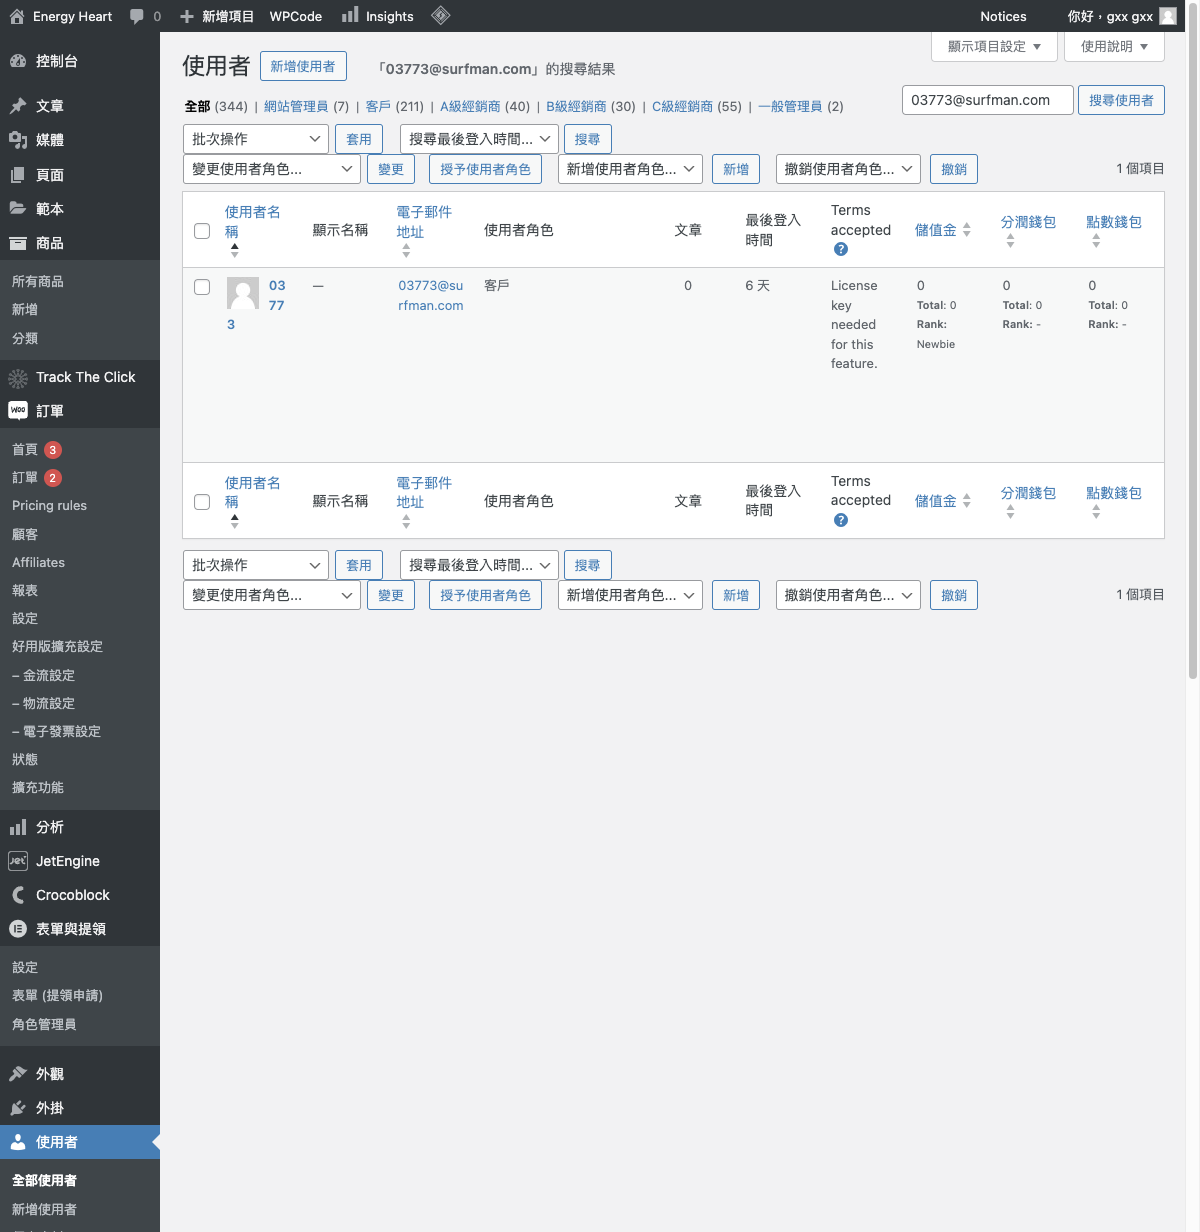
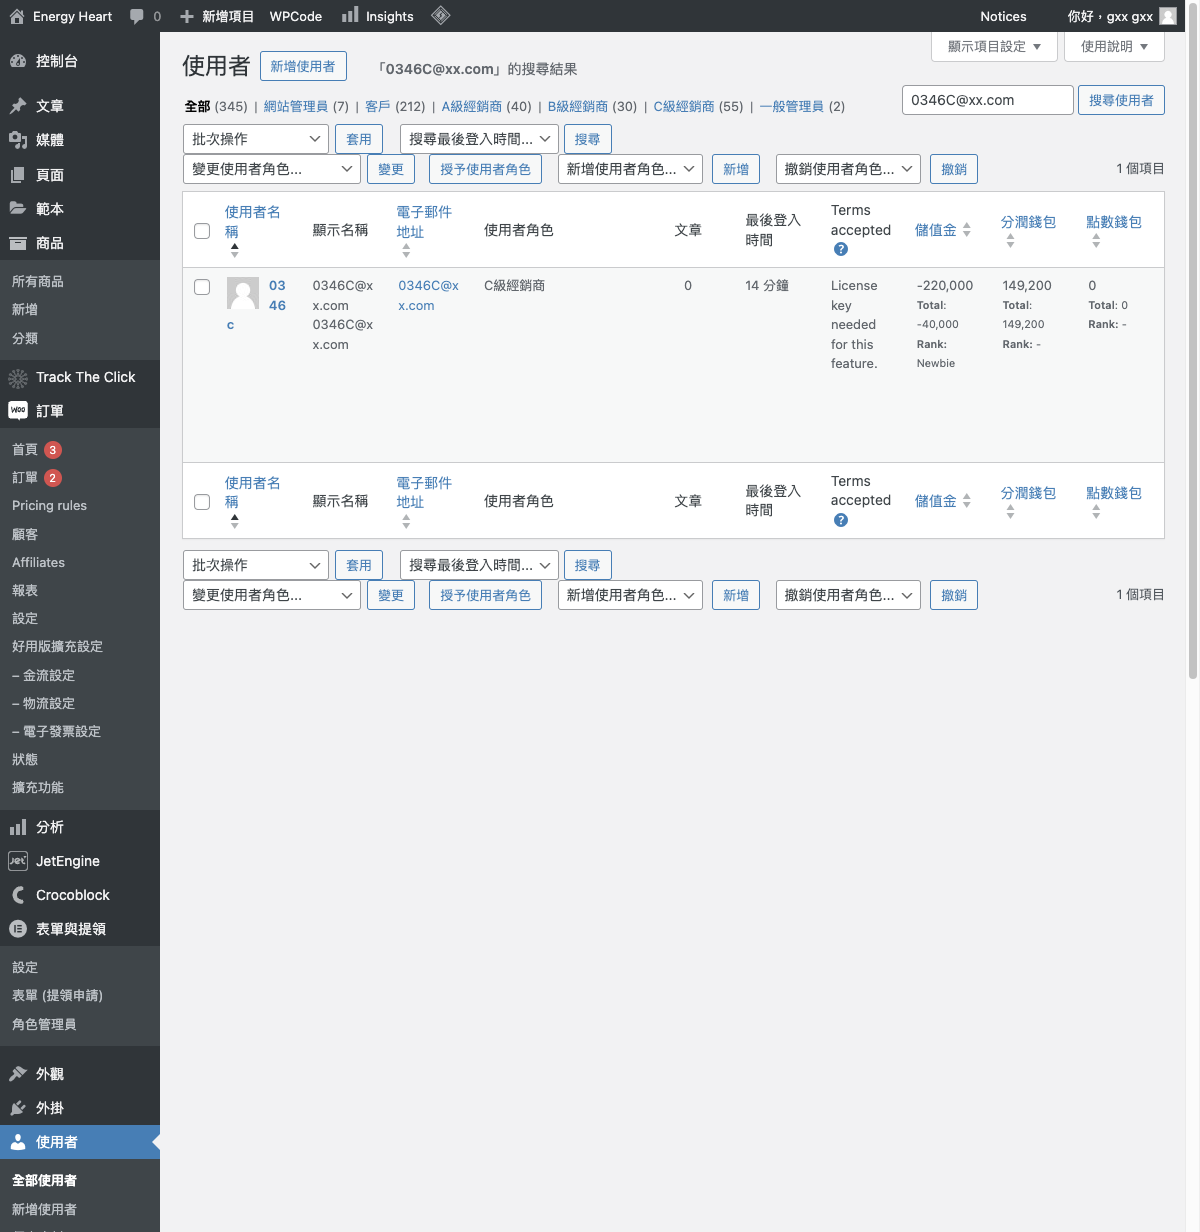
weird version but can pass second account loggin

diff --git a/existedMemberPurchase.js b/existedMemberPurchase.js
@@ -50,7 +50,7 @@ const rl = readline.createInterface({
 
         // 打開 WordPress 登入頁面
         await driver.get('https://www.energyheart.com.tw/wp-login.php');
-        console.log('已打開登入頁面');
+        console.log('Admin檢查此帳號客戶角色....');
         await takeScreenshot('Admin-已打開登入頁面.png');
 
         // 等待登入表單元素顯示
@@ -69,7 +69,7 @@ const rl = readline.createInterface({
 
         // 等待登入完成，檢查是否進入後台首頁
         await driver.wait(until.urlContains('wp-admin'), 30000);
-        await takeScreenshot('Admin-登入成功進入後台.png');
+        await takeScreenshot('Admin-成功登入後台.png');
 
         // 切換到使用者頁面，準備查看登入者帳號的使用者角色(經銷商等級)
         await driver.get('https://www.energyheart.com.tw/wp-admin/users.php');
@@ -83,110 +83,118 @@ const rl = readline.createInterface({
         await driver.sleep(7000); // 假設等待 7 秒鐘
         
         const tdValue = await driver.findElement(By.xpath('//td[@class="role column-role" and @data-colname="使用者角色"]')).getText();
-        console.log('使用者角色:', tdValue);
+        console.log(`${user_account}的使用者角色為:`, tdValue);
 
+        // 打開 WordPress 登入頁面
+        await driver.get('https://www.energyheart.com.tw/wp-login.php');
+        console.log('1-已打開登入頁面');
+        await takeScreenshot('1-已打開登入頁面.png');
 
-    //     // 打開 WordPress 登入頁面
-    //     await driver.get('https://www.energyheart.com.tw/wp-login.php');
-    //     console.log('1-已打開登入頁面');
-    //     await takeScreenshot('1-已打開登入頁面.png');
+        // 等待登入表單元素顯示
+        await driver.wait(until.elementLocated(By.id('user_login')), 10000);
 
-    //     // 等待登入表單元素顯示
-    //     await driver.wait(until.elementLocated(By.id('user_login')), 15000);
+        // 填寫登入表單
+        const userAccount = user_account;  // 替換為管理員用戶名
+        const userPassword = user_password;  // 替換為管理員密碼
+        // console.log(userAccount, userPassword);
+        // 使用 JavaScript 設置輸入框的值
 
-    //     // 填寫登入表單
-    //     const userAccount = user_account;  // 替換為管理員用戶名
-    //     const userPassword = user_password;  // 替換為管理員密碼
-    //     await driver.findElement(By.id('user_login')).sendKeys(userAccount);
-    //     await driver.findElement(By.id('user_pass')).sendKeys(userPassword);
-    //     console.log('2-已填寫登入表單');
-    //     await takeScreenshot('2-已填寫登入表單.png');
+        await takeScreenshot('aaa.png');
+        await driver.executeScript("document.getElementById('user_login').setAttribute('value', arguments[0]);", userAccount);
+        await takeScreenshot('bbb.png');
+        await driver.findElement(By.id('user_pass')).sendKeys(userPassword);
+        await takeScreenshot('ccc.png');
+        console.log('2-已填寫登入表單');
+        await takeScreenshot('2-已填寫登入表單.png');
 
-    //     // 提交登入表單
-    //     await driver.findElement(By.id('wp-submit')).click();
-    //     console.log('3-已提交登入表單');
+        // 提交登入表單
+        console.log('3-提交登入表單前(about to click)');
+        await driver.findElement(By.id('wp-submit')).click();
+        await takeScreenshot('ddd.png');
+        console.log('3-已提交登入表單(after click)');
+        await takeScreenshot('eee.png');
 
-    //     // 等待登入完成，檢查是否進入後台首頁
-    //     await driver.sleep(5000); // 假設等待 5 秒鐘
-    //     console.log('4-登入後進到的地方(管理員會到後台/一般使用者到my-account');
-    //     await takeScreenshot('4-登入後進到的地方.png');
+        // 等待登入完成，檢查是否進入後台首頁
+        await driver.sleep(5000); // 假設等待 5 秒鐘
+        console.log('4-登入後進到的地方(管理員會到後台/一般使用者到my-account');
+        await takeScreenshot('4-登入後進到的地方.png');
 
-    //     // 購物流程
-    //     // 進入購物頁面 https://www.energyheart.com.tw/products/
-    //     await driver.get('https://www.energyheart.com.tw/products/');
-    //     console.log('5-1已進入購物頁面');
+        // 購物流程
+        // 進入購物頁面 https://www.energyheart.com.tw/products/
+        await driver.get('https://www.energyheart.com.tw/products/');
+        console.log('5-1已進入購物頁面');
 
-    //     // 點擊「新航域合作專區」
-    //     await driver.findElement(By.xpath('//div[contains(text(), "新航域合作專區")]')).click();
-    //     console.log('5-2已點擊「新航域合作專區」');
-    //     await takeScreenshot('5-2進入新航域合作專區.png');  // 截圖選擇專區
+        // 點擊「新航域合作專區」
+        await driver.findElement(By.xpath('//div[contains(text(), "新航域合作專區")]')).click();
+        console.log('5-2已點擊「新航域合作專區」');
+        await takeScreenshot('5-2進入新航域合作專區.png');  // 截圖選擇專區
         
-    //     // 選擇購買「....艙」
+        // 選擇購買「....艙」
         
-    //     const comboBuying = await new Promise((resolve) => {
-    //         rl.question('您要買的套餐?(請輸入:豪華經典艙/能量商務艙/尊貴頭等艙):', resolve);
-    //     });
+        const comboBuying = await new Promise((resolve) => {
+            rl.question('您要買的套餐?(請輸入:豪華經典艙/能量商務艙/尊貴頭等艙):', resolve);
+        });
 
-    //     const comboName = comboBuying.trim();
-    //     console.log('6-1您輸入的指定套餐為:', comboName);
+        const comboName = comboBuying.trim();
+        console.log('6-1您輸入的指定套餐為:', comboName);
 
-    //     await driver.findElement(By.xpath(`//h2[contains(text(), "${comboName}")]`)).click();
-    //     console.log(`6-2已選擇「${comboName}」`);
-    //     await takeScreenshot(`6-2已選擇${comboName}.png`);  // 截圖選擇產品
+        await driver.findElement(By.xpath(`//h2[contains(text(), "${comboName}")]`)).click();
+        console.log(`6-2已選擇「${comboName}」`);
+        await takeScreenshot(`6-2已選擇${comboName}.png`);  // 截圖選擇產品
 
-    //     rl.close();
+        rl.close();
 
-    //    // 加入購物車
-    //     let addToCartButton = await driver.findElement(By.css('.single_add_to_cart_button'));
-    //     await driver.wait(until.elementIsVisible(addToCartButton), 10000); // 等待元素可見
-    //     await addToCartButton.click();
-    //     await takeScreenshot('7-1-點選加入購物車.png');  // 截圖選擇產品
-    //     console.log('7-1已加入購物車');
-    //     await driver.sleep(5000); // 假設等待 5 秒鐘
-    //     await takeScreenshot('7-2-可以查看購物車了.png');  // 截圖選擇產品
+       // 加入購物車
+        let addToCartButton = await driver.findElement(By.css('.single_add_to_cart_button'));
+        await driver.wait(until.elementIsVisible(addToCartButton), 10000); // 等待元素可見
+        await addToCartButton.click();
+        await takeScreenshot('7-1-點選加入購物車.png');  // 截圖選擇產品
+        console.log('7-1已加入購物車');
+        await driver.sleep(5000); // 假設等待 5 秒鐘
+        await takeScreenshot('7-2-可以查看購物車了.png');  // 截圖選擇產品
         
-    //     // 進入購物車頁面
-    //     await driver.get('https://www.energyheart.com.tw/checkout-2/');
-    //     console.log('8-1已進入購物車頁面');
-    //     await takeScreenshot('8-1-進入購物車頁面.png');
+        // 進入購物車頁面
+        await driver.get('https://www.energyheart.com.tw/checkout-2/');
+        console.log('8-1已進入購物車頁面');
+        await takeScreenshot('8-1-進入購物車頁面.png');
 
-    //     // 假設這裡需要進行結帳的相關操作，例如選擇配送方式、填寫地址等
-    //     await driver.sleep(7000);
-    //     await takeScreenshot('8-2-讓購物車頁面跳轉後.png');
-    //     console.log('8-2購物車頁面跳轉了');
+        // 假設這裡需要進行結帳的相關操作，例如選擇配送方式、填寫地址等
+        await driver.sleep(7000);
+        await takeScreenshot('8-2-讓購物車頁面跳轉後.png');
+        console.log('8-2購物車頁面跳轉了');
 
-    //     const testFirstName = '姓' + user_account;
-    //     const testLastName = '名' + user_account;
-    //     const testPhone ='0966520168';
-    //     await driver.findElement(By.name('billing_first_name')).sendKeys(testFirstName);
-    //     // await takeScreenshot('91-selected_product.png');
-    //     await driver.findElement(By.name('billing_last_name')).sendKeys(testLastName);
-    //     // await takeScreenshot('92-selected_product.png');
-    //     await driver.findElement(By.name('billing_phone')).sendKeys(testPhone);
-    //     await takeScreenshot('9-填完姓名電話後.png');
-    //     console.log('9-填完姓名電話後');
+        const testFirstName = '姓' + user_account;
+        const testLastName = '名' + user_account;
+        const testPhone ='0966520168';
+        await driver.findElement(By.name('billing_first_name')).sendKeys(testFirstName);
+        // await takeScreenshot('91-selected_product.png');
+        await driver.findElement(By.name('billing_last_name')).sendKeys(testLastName);
+        // await takeScreenshot('92-selected_product.png');
+        await driver.findElement(By.name('billing_phone')).sendKeys(testPhone);
+        await takeScreenshot('9-填完姓名電話後.png');
+        console.log('9-填完姓名電話後');
 
-    //     await driver.findElement(By.name('woocommerce_checkout_place_order')).click();
-    //     console.log('9-1點選結帳按鈕, 準備並等待跳轉');
-    //     await driver.sleep(15000);
-    //     console.log('9-2跳轉成功-完成結帳-顯示訂單頁面');
-    //     await takeScreenshot('9-2完成結帳-顯示訂單頁面.png');
-    //     // 查找 <li> 标签中的 <strong> 子标签
-    //     const strongElement = await driver.findElement(By.css('.woocommerce-order-overview__order.order strong'));
-    //     const orderNumber = await strongElement.getText();
-    //     console.log('10-取得訂單編號-', orderNumber);
+        await driver.findElement(By.name('woocommerce_checkout_place_order')).click();
+        console.log('9-1點選結帳按鈕, 準備並等待跳轉');
+        await driver.sleep(15000);
+        console.log('9-2跳轉成功-完成結帳-顯示訂單頁面');
+        await takeScreenshot('9-2完成結帳-顯示訂單頁面.png');
+        // 查找 <li> 标签中的 <strong> 子标签
+        const strongElement = await driver.findElement(By.css('.woocommerce-order-overview__order.order strong'));
+        const orderNumber = await strongElement.getText();
+        console.log('10-取得訂單編號-', orderNumber);
 
-    //     // 將結果保存到Excel
-    //     const workbook = xlsx.utils.book_new();
-    //     const worksheetData = [
-    //     ['User Email', 'User Level', 'Purchased combo', 'orderNumber'],
-    //     [user_account, userLevel, comboName, orderNumber, /* more data here */]
-    //     ];
-    //     const worksheet = xlsx.utils.aoa_to_sheet(worksheetData);
-    //     xlsx.utils.book_append_sheet(workbook, worksheet, 'Test Results');
-    //     xlsx.writeFile(workbook, 'purchased_results.xlsx');
-    //     console.log('寫入Excel檔案並輸出:', `${user_account}_purchased_results.xlsx`);
-    //     console.log('完成結帳流程');
+        // 將結果保存到Excel
+        const workbook = xlsx.utils.book_new();
+        const worksheetData = [
+        ['User Email', 'User Level', 'Purchased combo', 'orderNumber'],
+        [user_account, userLevel, comboName, orderNumber, /* more data here */]
+        ];
+        const worksheet = xlsx.utils.aoa_to_sheet(worksheetData);
+        xlsx.utils.book_append_sheet(workbook, worksheet, 'Test Results');
+        xlsx.writeFile(workbook, 'purchased_results.xlsx');
+        console.log('寫入Excel檔案並輸出:', `${user_account}_purchased_results.xlsx`);
+        console.log('完成結帳流程');
     } finally {
         // 關閉瀏覽器
         await driver.quit();
